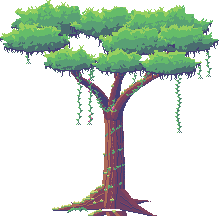
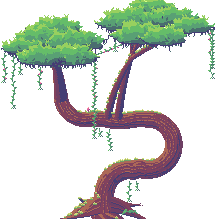
Alberi col tronco a serpente, dal disegno 111 di Bru
Bru: "per dare un effetto piu' particolare potremmo curvare il tronco come nel mio
disegno". Il tronco (piante.albero_serpente) sale dal piede, corre di lato, gira in su a
gomito tondo e torna indietro, due o tre volte, come un nastro piegato; in cima il ramo
grande sale in un cuscino di chioma e dall'ultima ansa due rami salgono nell'altro (due
cuscini, come nel disegno).
- la corteccia segue le curve: ogni pixel prende luce e scanalature dal punto del tronco
  piu' vicino, cosi' le venature scorrono lungo le anse; il riflesso sul bordo in ombra
- muschio e bromelie sopra le anse, liane corte che pendono da sotto
- le radici a contrafforte, le felci, la chioma a gruppi e le liane come negli alberi
  esotici
- nella mappa: gli alberi a serpente dove si vedono interi (a destra, negli angoli in
  basso, a sinistra, l'albero solo nel prato); sul bordo in alto, dove la chioma esce
  dalla mappa, gli alberi esotici a tronco dritto (albero_alto_dritto_1, _2)

Claude-Session: https://claude.ai/code/session_01AE7uzpDH1Lo1PHb29aXJxZ

diff --git a/strumenti/livelli/piante.py b/strumenti/livelli/piante.py
@@ -799,6 +799,246 @@ def albero_esotico(alto=230, seme=1, con_piede=False):
     return (out, (int(round(cx)) - int(x0), int(base) - int(y0))) if con_piede else out
 
 
+# ================================================================ il tronco a serpente
+# Bru (disegno 111): "per dare un effetto piu' particolare potremmo curvare il tronco come nel mio disegno". Il tronco
+# sale dal piede, corre di lato, gira in su a gomito e torna indietro, due o tre volte, come un nastro piegato; in cima
+# il ramo grande sale in un cuscino di chioma e dall'ultima corsa altri rami salgono nell'altro (due cuscini, come nel
+# disegno). La corteccia segue le curve: ogni pixel prende luce e scanalature dal punto del tronco piu' vicino, cosi'
+# le venature scorrono lungo le anse; sopra le corse orizzontali il muschio e le bromelie, sotto qualche liana.
+
+def _serpente(cx, base, alto, Wc, rng):
+    """il percorso del tronco: punti fitti, le corse (inizio, fine nei punti), la cima e il verso dell'ultima corsa"""
+    n = int(rng.integers(2, 4))
+    R = alto * 0.56 / (2 * n + 0.6)
+    lun = Wc * rng.uniform(0.2, 0.25)
+    verso = 1 if rng.random() < 0.5 else -1
+    pts = []
+
+    def arco(c, r, a0, a1):
+        for a in np.linspace(a0, a1, max(4, int(abs(a1 - a0) * r * 2))):
+            pts.append((c[0] + r * np.cos(a), c[1] + r * np.sin(a)))
+
+    def corsa(p0, p1, onda):
+        f, ph = rng.uniform(0.7, 1.4), rng.uniform(0, 2 * np.pi)
+        for t in np.linspace(0, 1, max(2, int(abs(p1[0] - p0[0]) * 2))):
+            pts.append((p0[0] + (p1[0] - p0[0]) * t,
+                        p0[1] + (p1[1] - p0[1]) * t + onda * np.sin(np.pi * t) * np.sin(2 * np.pi * f * t + ph)))
+    y = base - alto * 0.08 - R
+    for t in np.linspace(0, 1, int((base - y - R) * 2) + 2):        # su dal piede
+        pts.append((cx, base - (base - y - R) * t))
+    if verso > 0:                                                     # il primo gomito, verso il lato
+        arco((cx + R, y + R), R, np.pi, 1.5 * np.pi)
+    else:
+        arco((cx - R, y + R), R, 0.0, -0.5 * np.pi)
+    x = cx + verso * R
+    corse = []
+    for k in range(n):
+        xe = cx + verso * lun * (rng.uniform(0.9, 1.1) if k < n - 1 else rng.uniform(0.3, 0.6))
+        ye = y + rng.uniform(-0.03, 0.03) * alto
+        i0 = len(pts)
+        corsa((x, y), (xe, ye), rng.uniform(1.0, 3.0))
+        corse.append((i0, len(pts)))
+        if k < n - 1:                                                 # il gomito: mezzo cerchio in su, in fuori
+            if verso > 0:
+                arco((xe, ye - R), R, 0.5 * np.pi, -0.5 * np.pi)
+            else:
+                arco((xe, ye - R), R, 0.5 * np.pi, 1.5 * np.pi)
+            x, y = xe, ye - 2 * R
+            verso = -verso
+        else:
+            x, y = xe, ye
+    if verso > 0:                                                     # in cima: un quarto di gomito in su
+        arco((x, y - R), R, 0.5 * np.pi, 0.0)
+    else:
+        arco((x, y - R), R, 0.5 * np.pi, np.pi)
+    return np.array(pts, float), corse, verso
+
+
+def _legno_lungo(T, P, Wd, rng, rampa=TRONCO):
+    """Il tronco lungo il percorso: ogni pixel prende il punto piu' vicino (in raggi); la luce da in alto a sinistra
+    rispetto a quel punto; le scanalature a distanza fissa di traverso, che ondeggiano piano lungo il tronco (un
+    gradino piu' scure, la luce sul labbro); il riflesso sul bordo in ombra."""
+    tg = np.gradient(P, axis=0)
+    tg /= np.linalg.norm(tg, axis=1)[:, None] + 1e-9
+    nr = np.stack([-tg[:, 1], tg[:, 0]], 1)
+    sarc = np.concatenate([[0], np.cumsum(np.linalg.norm(np.diff(P, axis=0), axis=1))])
+    best = np.full((T.h, T.w), np.inf)
+    idx = np.full((T.h, T.w), -1, int)
+    for i in range(len(P)):
+        x, y = P[i]
+        r = Wd[i] / 2
+        x0, x1 = max(0, int(x - r - 1)), min(T.w, int(x + r + 2))
+        y0, y1 = max(0, int(y - r - 1)), min(T.h, int(y + r + 2))
+        if x0 >= x1 or y0 >= y1:
+            continue
+        yy, xx = np.mgrid[y0:y1, x0:x1]
+        d = np.hypot(xx + 0.5 - x, yy + 0.5 - y) / r
+        sb, si = best[y0:y1, x0:x1], idx[y0:y1, x0:x1]
+        m = d < sb
+        sb[m] = d[m]
+        si[m] = i
+    ys, xs = np.nonzero(best <= 1.0)
+    i = idx[ys, xs]
+    r = Wd[i] / 2
+    ox, oy = (xs + 0.5 - P[i, 0]) / r, (ys + 0.5 - P[i, 1]) / r
+    sl = ox * LUCE[0] + oy * LUCE[1]
+    k = np.where(sl > 0.42, 3, np.where(sl > -0.2, 2, np.where(sl > -0.72, 1, 0)))
+    caso = rng.random(len(ys))
+    k = np.where((best[ys, xs] > 0.8) & (sl < -0.72) & (caso < 0.5), 1, k)     # il riflesso del prato
+    u = ox * nr[i, 0] + oy * nr[i, 1]
+    verso_luce = np.sign(nr[i, 0] * LUCE[0] + nr[i, 1] * LUCE[1] + 1e-9)
+    for j, u0 in enumerate((-0.64, -0.3, 0.04, 0.38, 0.7)):
+        f1, f2 = rng.uniform(0, 2 * np.pi, 2)
+        uu = u0 + 0.07 * np.sin(sarc[i] / 7.0 + f1)
+        aperto = np.sin(sarc[i] / 5.3 + f2) + 0.4 * np.sin(sarc[i] / 2.3 + f1) > -1.0   # ogni tanto il solco si rompe
+        du = (u - uu) * r
+        solco = (np.abs(du) < 0.5) & aperto
+        labbro = (du * verso_luce >= 0.5) & (du * verso_luce < 1.5) & aperto & (caso < 0.55)
+        k = np.where(solco, np.maximum(0, k - 1), np.where(labbro, np.minimum(3, k + 1), k))
+    T.img[ys, xs] = np.array(rampa, np.uint8)[k]
+    T.op[ys, xs] = True
+
+
+def albero_serpente(alto=230, seme=1, con_piede=False):
+    rng = np.random.default_rng(seme)
+    Wc = alto * rng.uniform(0.95, 1.05)
+    w, h = int(Wc) + 40, alto + 14
+    T = _Tela(h, w)
+    base = h - 8
+    cx = w / 2 + rng.uniform(-3, 3)
+    cima = base - alto + 4
+    W0 = alto * 0.1                                          # quanto e' grosso il tronco al piede
+    P, corse, verso = _serpente(cx, base, alto, Wc, rng)
+    sarc = np.concatenate([[0], np.cumsum(np.linalg.norm(np.diff(P, axis=0), axis=1))])
+    Wd = W0 * (1 - 0.3 * sarc / sarc[-1]) + alto * 0.045 * np.clip(1 - (base - P[:, 1]) / (alto * 0.05), 0, 1) ** 2
+    xt, yt = P[-1]
+    # i due cuscini della chioma: quello del ramo grande dalla sua parte, l'altro dall'altra; uno piu' alto
+    sA = 1 if xt >= cx else -1
+    alzo = rng.uniform(-0.03, 0.03) * alto
+    cuscini = [(cx + sA * Wc * rng.uniform(0.22, 0.27), cima + alto * 0.15 + alzo, sA),
+               (cx - sA * Wc * rng.uniform(0.2, 0.25), cima + alto * 0.11 - alzo, -sA)]
+    gruppi = []
+    for (px_, py_, fuori) in cuscini:
+        # (spostamento x verso fuori, y, raggio, schiacciato, tono): dietro, sopra, davanti, e uno che allunga il
+        # cuscino verso fuori
+        for (dx_, dy_, rr, sch, tono) in ((-0.1, -0.02, 0.15, 0.5, 4.8), (0.1, -0.03, 0.14, 0.5, 4.8),
+                                           (0.0, -0.08, 0.13, 0.5, 4.9), (-0.06, 0.05, 0.14, 0.55, 5.1),
+                                           (0.08, 0.055, 0.12, 0.55, 5.0), (0.2, 0.01, 0.1, 0.52, 4.9)):
+            if rng.random() < 0.92:
+                rx = Wc * rr * rng.uniform(0.9, 1.1)
+                gruppi.append((px_ + fuori * Wc * dx_ + rng.uniform(-3, 3), py_ + alto * dy_ + rng.uniform(-2, 2), rx,
+                               rx * sch, rx * sch * 0.55, tono))
+    gruppi.sort(key=lambda q: q[1])
+    giu_chioma = max(q[1] + q[4] for q in gruppi)
+    # le radici dietro, il tronco a serpente, le radici davanti
+    hw_b = W0 / 2
+    for ang in (205 + rng.uniform(-10, 10), 335 + rng.uniform(-10, 10)):
+        _radice(T, cx + np.cos(np.radians(ang)) * hw_b * 0.7, base - 1, ang, alto * 0.14, alto * 0.065, rng)
+    _legno_lungo(T, P, Wd, rng)
+    for ang, L, F in ((168 + rng.uniform(-8, 8), 0.2, 0.085), (138 + rng.uniform(-10, 10), 0.15, 0.075),
+                      (92 + rng.uniform(-6, 6), 0.1, 0.065), (48 + rng.uniform(-10, 10), 0.14, 0.07),
+                      (12 + rng.uniform(-8, 8), 0.19, 0.08)):
+        a = np.radians(ang)
+        _radice(T, cx + np.cos(a) * hw_b * 0.8, base + np.sin(a) * hw_b * 0.3, ang, alto * L * rng.uniform(0.85, 1.15),
+                alto * F * rng.uniform(0.85, 1.15), rng)
+    # l'ombra della chioma sul tronco in alto: un gradino piu' scuro
+    for y in range(max(0, int(giu_chioma) - 2), min(h, int(giu_chioma + alto * 0.07))):
+        for x in range(w):
+            if T.op[y, x]:
+                c = tuple(int(v) for v in T.img[y, x])
+                if c in TRONCO and TRONCO.index(c) > 0:
+                    T.img[y, x] = TRONCO[TRONCO.index(c) - 1]
+    # i rami: quello grande dalla cima del tronco nel suo cuscino, due dall'ultima corsa nell'altro; dentro i
+    # cuscini i rametti verso i gruppi
+    attacchi = []
+    Wt = Wd[-1]
+    mioA = [q for q in gruppi if (q[0] - cx) * sA > 0]
+    mioB = [q for q in gruppi if (q[0] - cx) * sA <= 0]
+
+    def ramo(p0, w0, gr):
+        if not gr:
+            return
+        tx = np.mean([q[0] for q in gr]); ty = np.mean([q[1] + q[4] for q in gr])
+        q1 = (p0[0] + (tx - p0[0]) * 0.5, p0[1] - (p0[1] - ty) * 0.75)
+        rp = _bezier(p0, (p0[0] + (tx - p0[0]) * 0.15, p0[1] - (p0[1] - ty) * 0.45), q1,
+                     int(np.hypot(q1[0] - p0[0], q1[1] - p0[1]) * 1.6))
+        w1 = max(3.0, w0 * 0.6)
+        _legno(T, rp, [w0 + (w1 - w0) * i / max(1, len(rp) - 1) for i in range(len(rp))])
+        attacchi.append(rp)
+        for (mx, my, rx, ryt, ryb, tono) in gr:
+            p2 = (mx + rng.uniform(-0.25, 0.25) * rx, my + ryb * 0.3)
+            r2 = _bezier(q1, ((q1[0] + p2[0]) / 2, q1[1] - (q1[1] - p2[1]) * 0.7), p2,
+                         int(np.hypot(p2[0] - q1[0], p2[1] - q1[1]) * 1.6))
+            _legno(T, r2, [w1 + (2.0 - w1) * (i / max(1, len(r2) - 1)) ** 0.8 for i in range(len(r2))])
+            attacchi.append(r2)
+    ramo((xt, yt + 1), Wt * 0.95, mioA)
+    i0, i1 = corse[-1]
+    for f in sorted(rng.uniform(0.3, 0.8, 2)):
+        j = int(i0 + (i1 - i0) * f)
+        if mioB:
+            ramo((P[j, 0], P[j, 1] - Wd[j] * 0.3), Wd[j] * 0.5, mioB[:3] if f < 0.55 else mioB[2:] or mioB)
+    # il muschio: sul dorso delle corse e dei rami (dove sopra e' vuoto), sul lato in luce in basso
+    for y in range(0, h):
+        for x in range(w):
+            if not T.op[y, x] or tuple(int(v) for v in T.img[y, x]) != TRONCO[3]:
+                continue
+            sopra_vuoto = y == 0 or not T.op[y - 1, x]
+            if (sopra_vuoto and rng.random() < 0.35) or (y > base - alto * 0.1 and rng.random() < 0.03):
+                _muschio(T, x - 1, y, rng, grande=y > base - alto * 0.12)
+    # sopra le corse una o due bromelie; sotto le corse qualche liana corta
+    dorsi, pance = [], []
+    for (a_, b_) in corse:
+        for j in range(a_, b_, 3):
+            x, y = int(round(P[j, 0])), int(round(P[j, 1]))
+            r = Wd[j] / 2
+            dorsi.append((x, int(round(y - r))))
+            pance.append((x, int(round(y + r)) + 1))
+    for _ in range(int(rng.integers(1, 3))):
+        bx, by = dorsi[int(rng.integers(len(dorsi)))]
+        for j, riga in enumerate(BROMELIA):
+            for i, ch in enumerate(riga):
+                if ch != '.':
+                    T.metti(bx - 3 + i, by - len(BROMELIA) + 2 + j, {'m': FIORE_LIANA[2], 'M': FIORE_LIANA[1],
+                            'o': FIORE_LIANA[0], 'g': MUSCHIO[3], 'G': MUSCHIO[2]}[ch])
+    for _ in range(int(rng.integers(2, 5))):
+        x, y = pance[int(rng.integers(len(pance)))]
+        if y < base - alto * 0.12:
+            _pendente(T, x, y, int(rng.uniform(6, 24)), rng, fiori=rng.random() < 0.3)
+    # le liane ad arco fra i rami, sotto la chioma
+    for _ in range(int(rng.integers(1, 3))):
+        if len(attacchi) < 2:
+            break
+        i, j = rng.choice(len(attacchi), 2, replace=False)
+        a = attacchi[i][int(len(attacchi[i]) * rng.uniform(0.35, 0.7))]
+        b = attacchi[j][int(len(attacchi[j]) * rng.uniform(0.35, 0.7))]
+        if abs(a[0] - b[0]) > 14:
+            _arco(T, a, b, rng.uniform(8, 20), rng, fiori=rng.random() < 0.4)
+    # la chioma, dal dietro al davanti, e le liane che pendono dai cuscini
+    chioma = np.zeros((h, w), bool)
+    for (mx, my, rx, ryt, ryb, tono) in gruppi:
+        chioma |= _gruppo(T, mx, my, rx, ryt, ryb, tono, rng)
+    fondi = [(x, np.nonzero(chioma[:, x])[0].max()) for x in range(w) if chioma[:, x].any()]
+    for _ in range(int(Wc / 24)):
+        x, yb = fondi[int(rng.integers(len(fondi)))]
+        L = int(rng.choice([rng.uniform(8, 22), rng.uniform(22, 50), rng.uniform(50, 90)], p=[0.45, 0.4, 0.15]))
+        if yb + L < base - 8:
+            _pendente(T, x, yb + 2, L, rng, fiori=rng.random() < 0.25)
+    # le felci al piede
+    for s_ in (-1, 1):
+        if rng.random() < 0.85:
+            _felce(T, cx + s_ * (hw_b + alto * rng.uniform(0.06, 0.1)), base + 1, alto * rng.uniform(0.065, 0.085), rng)
+    pad = np.pad(T.op, 1)
+    pieni = T.op & pad[:-2, 1:-1] & pad[2:, 1:-1] & pad[1:-1, :-2] & pad[1:-1, 2:]
+    _ripulisci(T.img, pieni)
+    out = np.zeros((h, w, 4), np.uint8)
+    out[..., :3] = T.img
+    out[..., 3] = T.op * 255
+    ys, xs = np.nonzero(out[..., 3])
+    y0, x0 = ys.min(), max(0, xs.min() - 1)
+    out = out[y0:ys.max() + 1, x0:xs.max() + 2]
+    return (out, (int(round(cx)) - int(x0), int(base) - int(y0))) if con_piede else out
+
+
 def _taglia(a):
     ys, xs = np.nonzero(a[..., 3])
     return a[ys.min():ys.max() + 1, max(0, xs.min() - 1):xs.max() + 2]

diff --git a/strumenti/livelli/ruscello_radenna.py b/strumenti/livelli/ruscello_radenna.py
@@ -702,13 +702,15 @@ ALBERI = [
     # Bru (26 novembre): le piante alla misura giusta rispetto a lei (alta 73): alberi ~3 volte lei, pini ~3,5,
     # cespugli poco piu' di lei o a meta' (strumenti/livelli/piante.py). Sono grandi, quindi piu' rade: incorniciano
     # i bordi, lasciano liberi la strada, il ponte, lo stagno e l'arrivo; si sbatte solo contro i tronchi.
-    # il boschetto in alto a sinistra (piedi abbastanza giu' che la chioma si veda tutta)
-    ('pino_alto_2', 40, 200), ('albero_alto_1', 160, 172), ('pino_alto_1', 262, 140), ('cespuglio_1', 112, 280),
+    # il boschetto in alto a sinistra (piedi abbastanza giu' che la chioma si veda tutta). Sul bordo in alto la chioma
+    # esce dalla mappa: li' gli alberi esotici a tronco dritto (si vedono il tronco e il fondo della chioma, come un
+    # bosco); quelli a serpente dove si vedono interi
+    ('pino_alto_2', 40, 200), ('albero_alto_dritto_1', 160, 172), ('pino_alto_1', 262, 140), ('cespuglio_1', 112, 280),
     # il bordo in alto, coi varchi della strada e del ruscello
-    ('albero_alto_3', 418, 150), ('pino_alto_3', 506, 122), ('albero_alto_2', 790, 172), ('pino_alto_1', 900, 150),
-    ('cespuglietto_1', 846, 196),
+    ('albero_alto_dritto_2', 418, 150), ('pino_alto_3', 506, 122), ('albero_alto_dritto_1', 790, 172),
+    ('pino_alto_1', 900, 150), ('cespuglietto_1', 846, 196),
     # in alto a destra, oltre il ruscello
-    ('albero_alto_4', 1180, 182), ('pino_alto_2', 1252, 252), ('cespuglio_2', 1118, 232),
+    ('albero_alto_dritto_2', 1180, 182), ('pino_alto_2', 1252, 252), ('cespuglio_2', 1118, 232),
     # il bordo a destra
     ('pino_alto_3', 1254, 330), ('albero_alto_1', 1228, 474), ('pino_alto_1', 1256, 600),
     # il bordo in basso: solo gli angoli, l'arrivo e la strada restano liberi
@@ -722,9 +724,10 @@ ALBERI = [
 ]
 # le piante nuove: (nome, che cosa, quanto alta, seme)
 # Bru: gli alberi tondi sembravano "un mucchio di palle"; ora sono alberi esotici (radici a contrafforte, chioma a
-# strati, liane e muschio): piante.albero_esotico
-PIANTE = [('albero_alto_1', 'albero_esotico', 205, 3), ('albero_alto_2', 'albero_esotico', 222, 11),
-          ('albero_alto_3', 'albero_esotico', 236, 17), ('albero_alto_4', 'albero_esotico', 214, 23), ('pino_alto_1', 'pino', 242, 2), ('pino_alto_2', 'pino', 262, 7),
+# strati, liane e muschio), col tronco che fa le anse come nel disegno 111 di Bru: piante.albero_serpente
+PIANTE = [('albero_alto_1', 'albero_serpente', 205, 3), ('albero_alto_2', 'albero_serpente', 222, 11),
+          ('albero_alto_3', 'albero_serpente', 236, 17), ('albero_alto_4', 'albero_serpente', 214, 23),
+          ('albero_alto_dritto_1', 'albero_esotico', 222, 11), ('albero_alto_dritto_2', 'albero_esotico', 236, 17), ('pino_alto_1', 'pino', 242, 2), ('pino_alto_2', 'pino', 262, 7),
           ('pino_alto_3', 'pino', 276, 13), ('cespuglio_1', 'cespuglio', 80, 5), ('cespuglio_2', 'cespuglio', 68, 19),
           ('cespuglietto_1', 'cespuglio', 50, 8)]
 COSE = [
@@ -793,7 +796,7 @@ def prepara_piante():
     # le piante nuove (strumenti/livelli/piante.py), coi semi fissi: sempre le stesse
     for (n, che, alto, seme) in PIANTE:
         f = getattr(_piante, che)
-        if che == 'albero_esotico':
+        if che in ('albero_esotico', 'albero_serpente'):
             # l'albero sa dov'e' il suo piede (il mezzo del tronco a terra: le radici e le felci vanno piu' in la')
             a, piede = f(alto, seme, con_piede=True)
             with open(os.path.join(NUOVI, n + '.json'), 'w') as fj:
